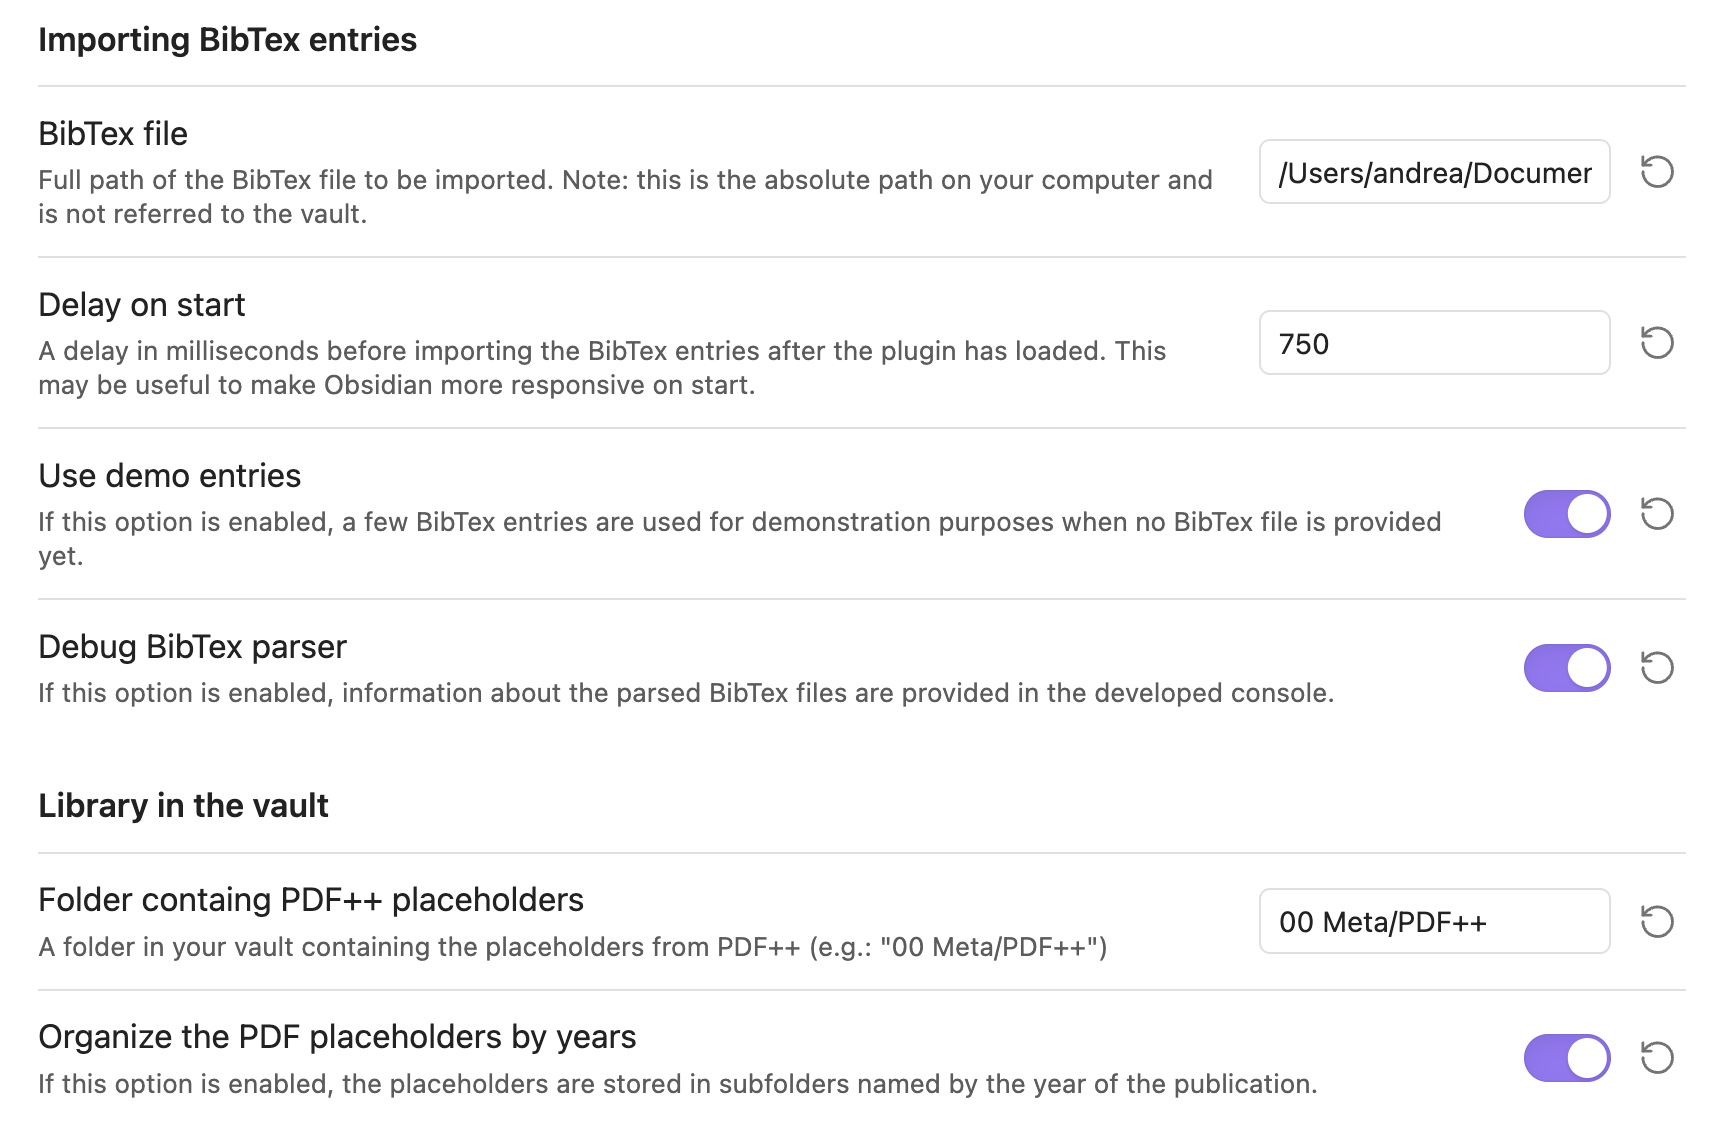
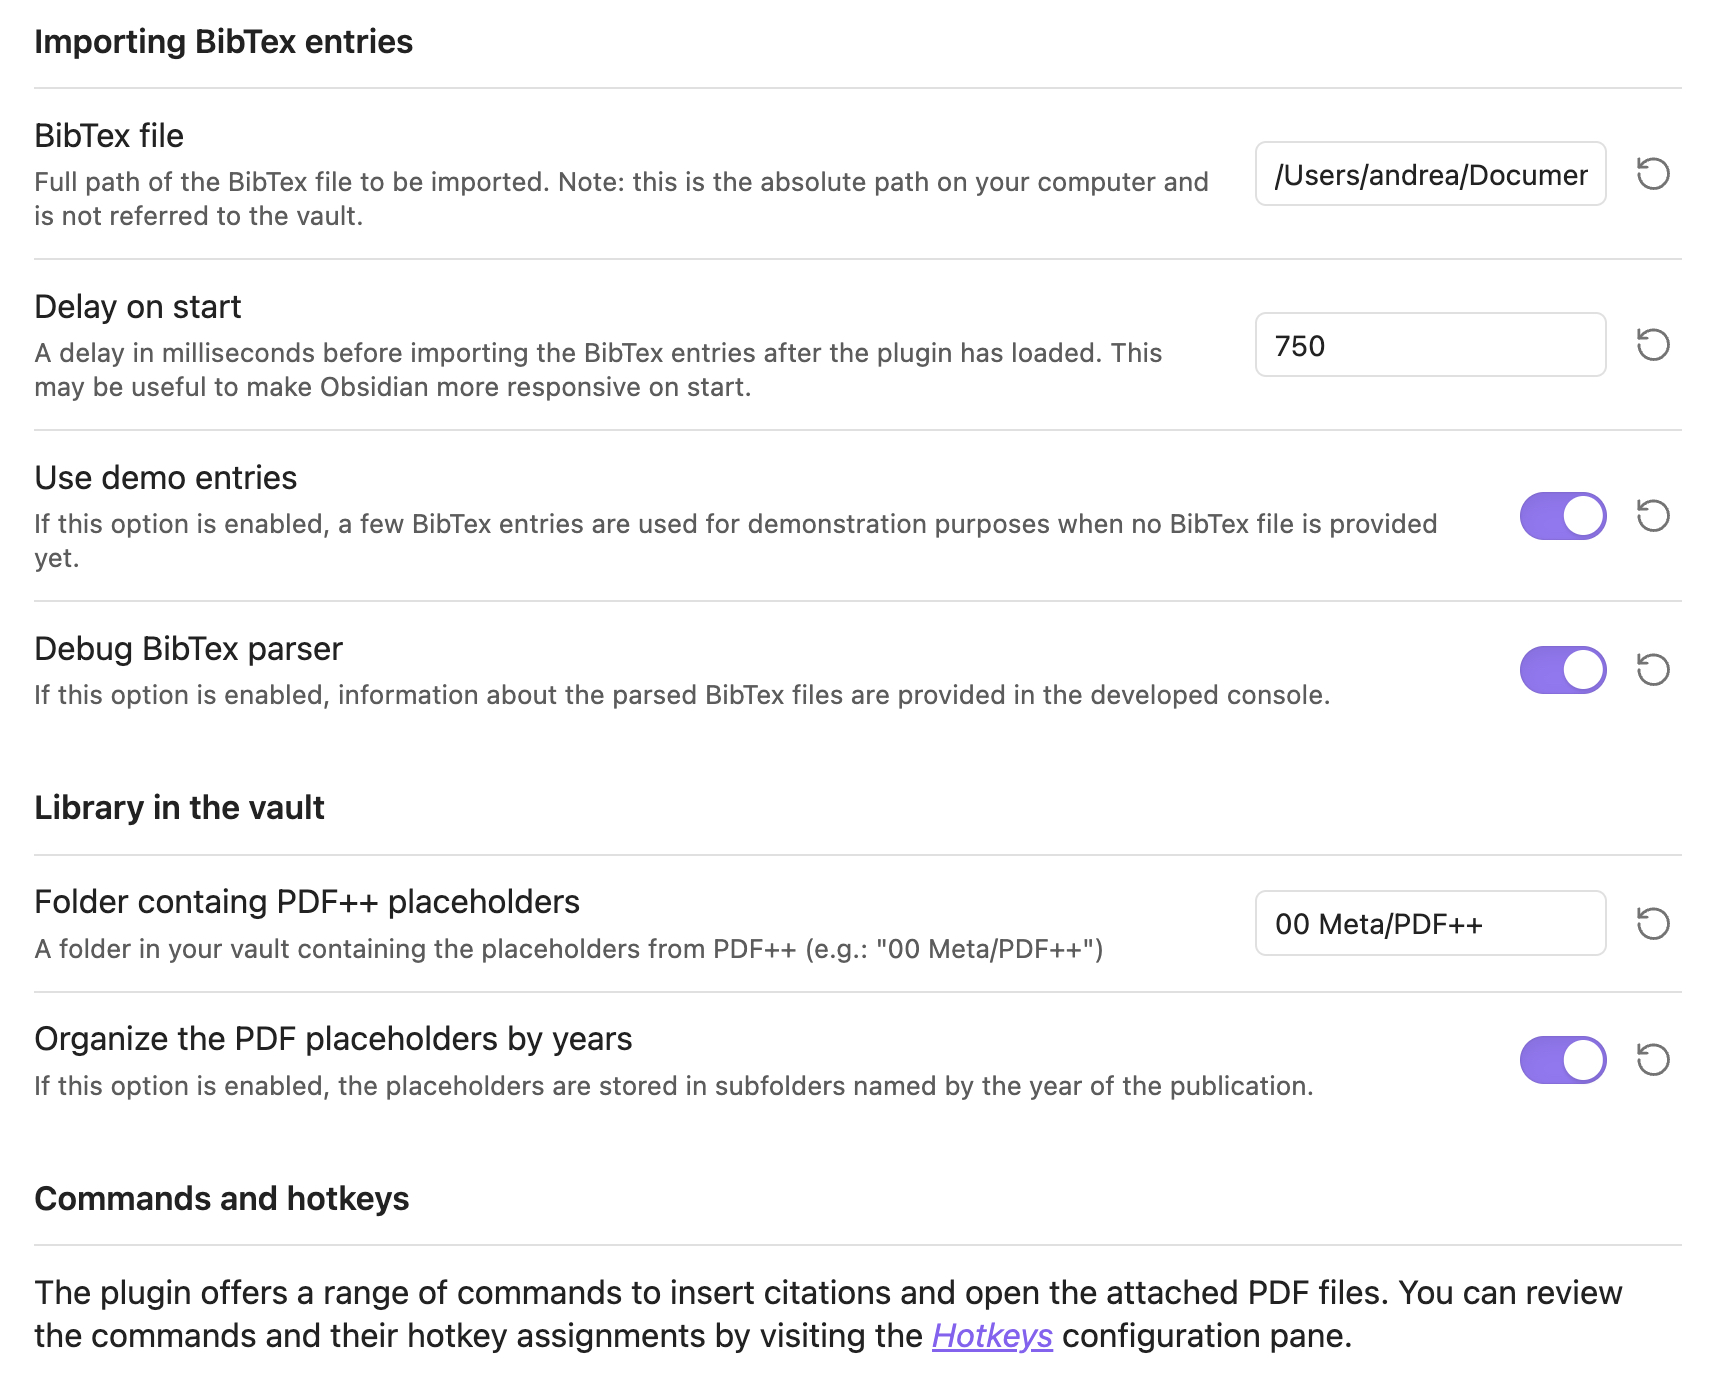
Improved instructions

diff --git a/README.md b/README.md
@@ -1,14 +1,28 @@
 # Obsidian Bibdesk Integration
 
-The plugin provides integration of the macOS [BibDesk](https://en.wikipedia.org/wiki/BibDesk) application with the [PDF++](https://github.com/RyotaUshio/obsidian-pdf-plus) plugin for Obsidian. The plugin relies on a BibTex file for the paper library. 
+⚠ The plugin is able to parse BibTex files in general, but for the momement it has been specialized and tested for BibTex libraries created with BibDesk application for MacOS.
 
-The plugin is able to parse the `bdsk-file-XYZ` fields created by BibDesks in the BibTex library. The strength of BibDesks `bdsk-file-XYZ` links is that they are macOS bookmarks that will resolve to the correct file even if the file is later renamed or moved.
+The plugin provides integration of the macOS [BibDesk](https://en.wikipedia.org/wiki/BibDesk) application with the [PDF++](https://github.com/RyotaUshio/obsidian-pdf-plus) plugin for Obsidian. The plugin relies on a BibTex file for the paper library.
+
+The plugin is able to parse the `bdsk-file-<NUMBER>` fields created by BibDesks in the BibTex library. The strength of BibDesks `bdsk-file-<NUMBER>` links is that they are macOS bookmarks that will resolve to the correct file even if the file is later renamed or moved.
+
+The plugin supports external BibDesk libraries. It relies on PDF++ to open the attached PDF as files external to Obsidian vault.
 
 The plugin does not require the paper library to be stored in the vault. This is especially important for those who have a large paper library of several GB and do not intend to use space in Obsidian's vault.
 
+The plugin provides its own fast parser for BibTex files, which is faster than existing parsers available on the internet for TypeScript. It is also faster than BibDesk original parser. Importantly, BibTex files are parsed in a separate thread preventing latency when loading Obsidian.
+
+Below is a screenshot of the configuration pane:
+
 ![setting_screenshot](docs/images/setting_screenshot.jpg)
 
+Below is a screenshot of the fuzzy search modal window to select a paper to open:
+
 ![setting_screenshot](docs/images/suggestion_menu_screenshot.jpg)
+
+We suggest customizing the commands with the following hotkeys:
+
+![hot_keys](docs/images/recommended_hotkeys.jpg)
 
 ## Installation
 
